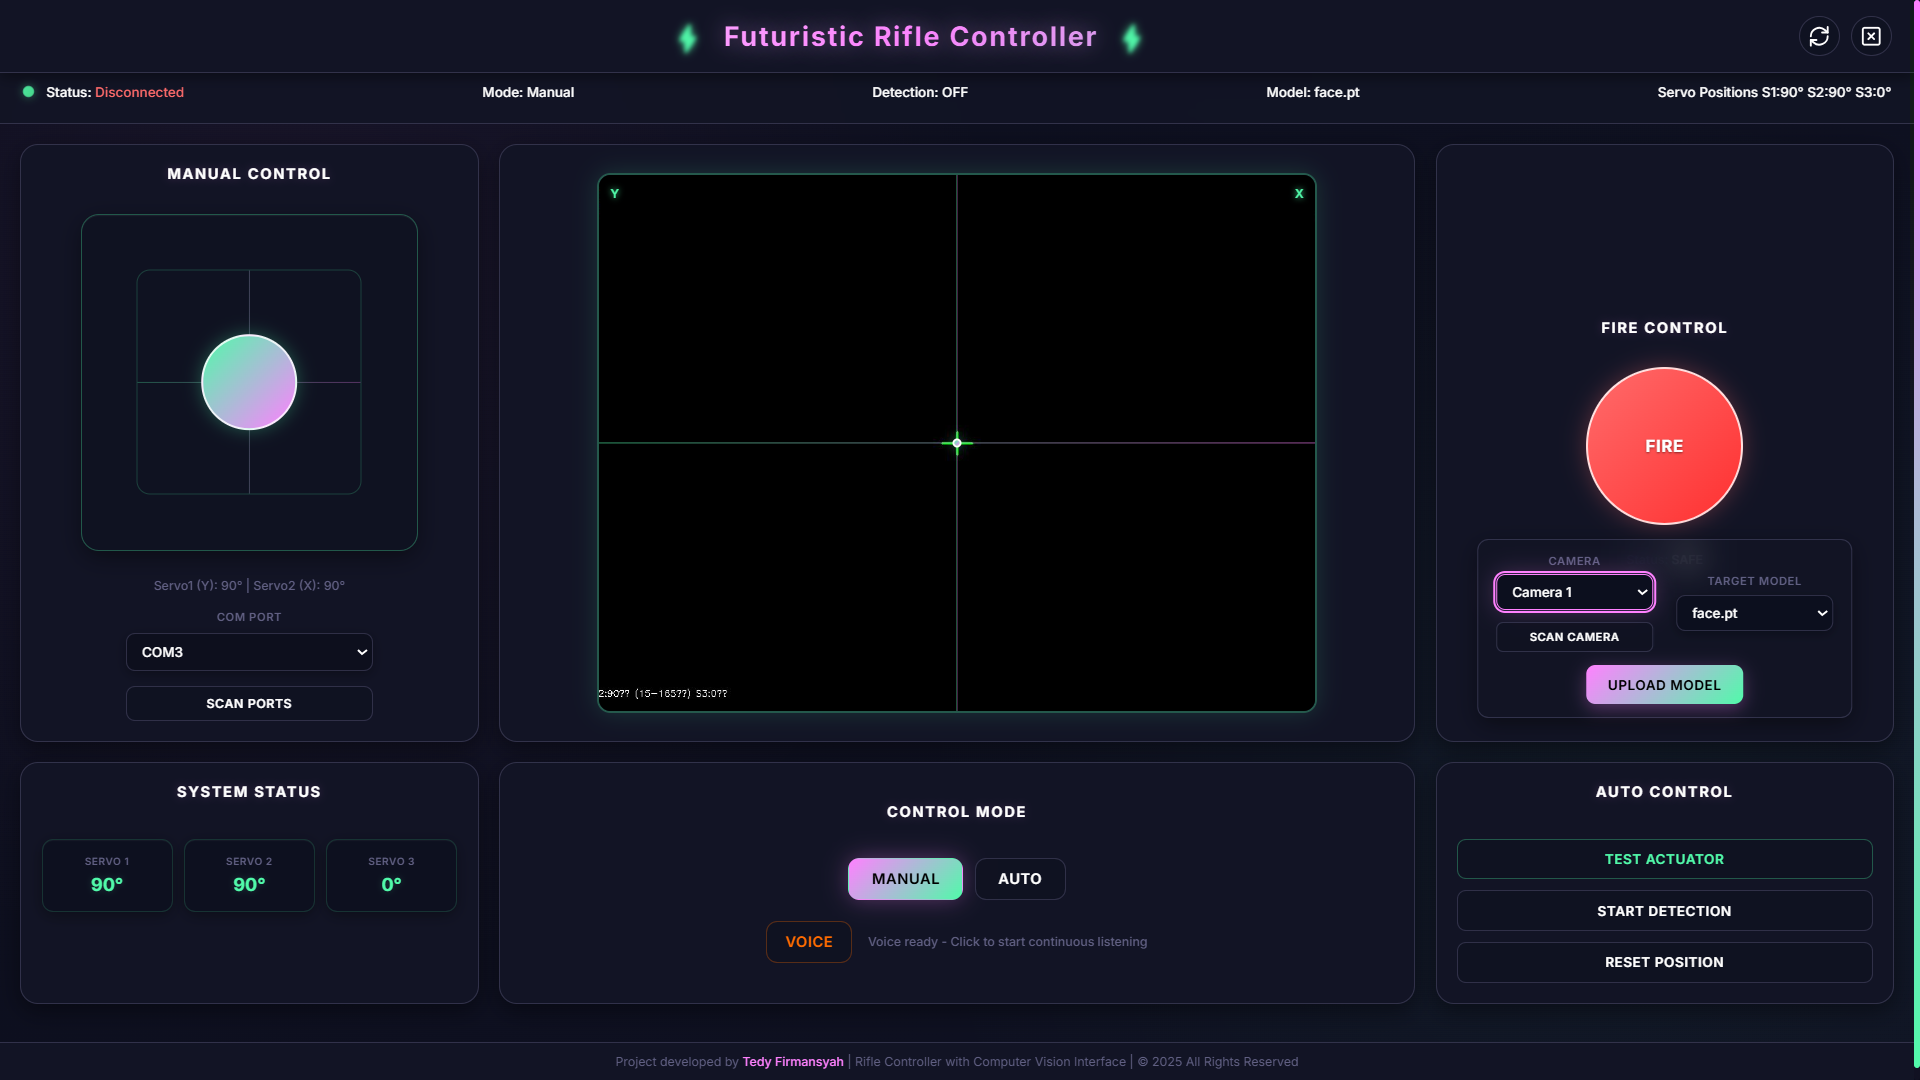
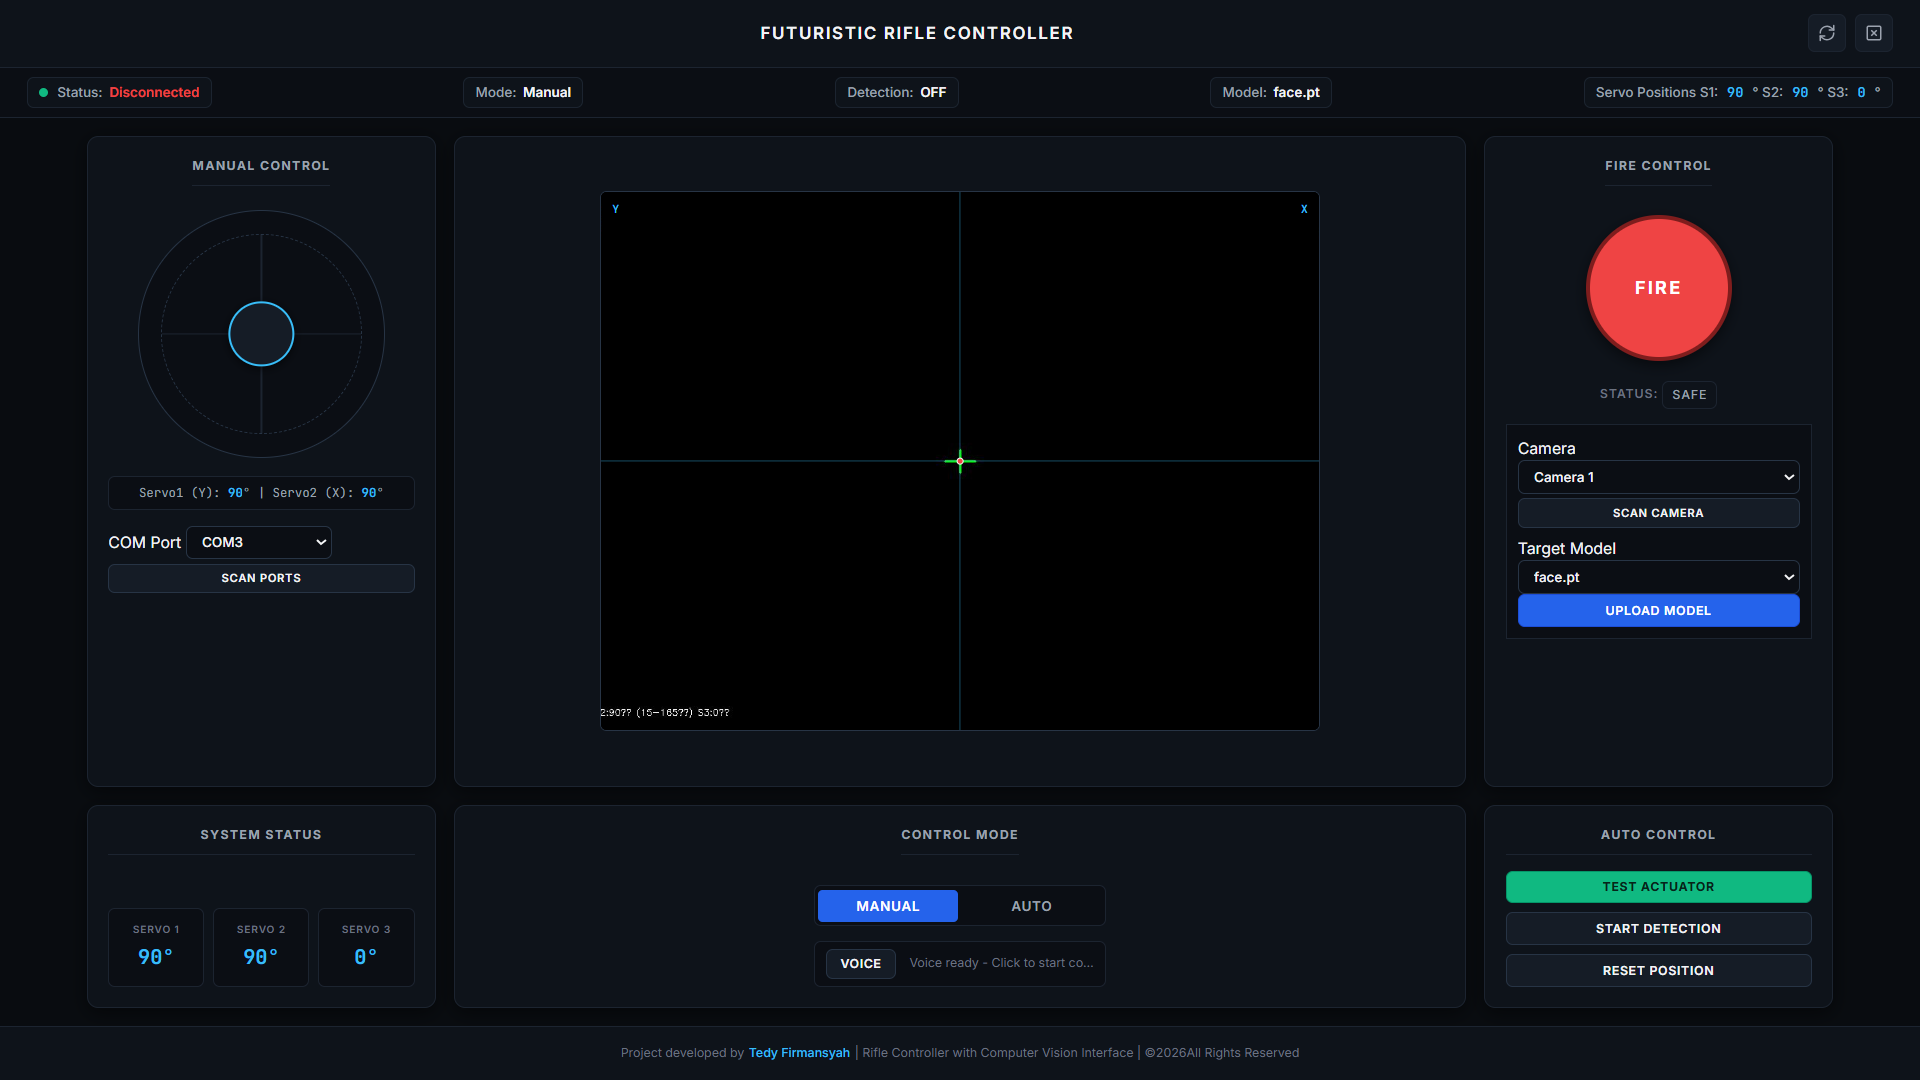
final presentatin 2026

diff --git a/README.md b/README.md
@@ -1,233 +1,214 @@
-# 🎯 AI Shooter Robot
+# AI Shooter Robot
 
-**AI Computer Vision Based Automatic Targeting System**
+**AI Computer Vision-Based Automatic Targeting System**
 
 ![Python](https://img.shields.io/badge/Python-3.8+-blue.svg)
 ![Arduino](https://img.shields.io/badge/Arduino-IDE-green.svg)
 ![OpenCV](https://img.shields.io/badge/OpenCV-4.5+-red.svg)
 ![JavaScript](https://img.shields.io/badge/JavaScript-ES6-yellow.svg)
 
-## 🖼 Deployment Preview
+## Deployment Preview
 
 <p align="center">
-  <img src="img/doc1.png" width="1080">
-  <img src="img/doc2.jpeg" width="1080">
+  <img src="img/doc1.png" width="1080" alt="Web Controller Interface">
+  <img src="img/doc2.jpeg" width="1080" alt="Hardware Prototype">
 </p>
 
-## 📋 Project Description
+## Project Description
 
-SHOT-AUTOMATION is an automatic targeting system that uses AI Computer Vision technology for object detection and precision targeting. The system is equipped with manual mode and voice control for maximum usage flexibility.
+SHOT-AUTOMATION is a prototype automated targeting system (pan-tilt turret shooter) powered by Computer Vision and an ESP32 microcontroller. The system uses YOLO (You Only Look Once) deep learning models to detect target objects in real-time, calculates spatial displacement errors relative to the camera frame center, and drives pan and tilt servos with closed-loop proportional control for target tracking.
 
-### ✨ Key Features
+The application features a modern dark-themed web interface offering manual control via a virtual joystick, trigger firing action, automated target tracking, voice command control, and dynamic switching of input cameras and detection models.
 
-- 🤖 **Automatic Targeting** - AI detection using computer vision models
-- 🎮 **Manual Mode** - Manual control for maximum precision  
-- 🎙 **Voice Control** - Voice command control via API
-- 🎯 **Multi-Target Detection** - Multiple object detection (face, hand, red_ball)
-- 📊 **Real-time Processing** - Real-time video processing
-- 🌐 **Web Interface** - User-friendly web interface
+### Key Features
 
-## 🏗 Project Structure
+- **Automatic Targeting**: Autonomous target tracking using proportional control loops on pan and tilt servo axes.
+- **Manual Mode**: High-precision manual positioning using a touchscreen/mouse virtual joystick on the web interface.
+- **Trigger Control**: Actuation of the firing trigger servo (Servo 3) in both manual and automatic modes.
+- **Voice Control**: Voice command processing using the Web Speech API for mode transitions, directional nudges, and firing.
+- **Multi-Target Detection**: Dynamic selection of YOLO models (`face.pt`, `hand.pt`, `red_ball.pt`).
+- **Offline Simulation & Benchmarking**: Standalone simulation scripts for image/video evaluation, alongside analytical scripts for servo settling times and step response curves.
+- **Web Interface**: Responsive, zero-latency dark-mode interface featuring real-time video streaming, telemetry readouts, and integrated synthesizer audio cues.
+
+## Project Structure
 
 ```
 SHOT-AUTOMATION/
-├── model/                 # AI models for object detection
-│   ├── face.pt           # Face detection model
-│   ├── hand.pt           # Hand detection model
-│   └── red_ball.pt       # Red ball detection model
-├── shot-automation/       # Core application
-│   └── shot-automation.ino # Arduino firmware
-├── static/               # Web static files
-│   ├── css/             # Stylesheets
-│   ├── js/              # JavaScript files
-│   └── sound/           # Audio files
-├── templates/            # HTML templates
-│   └── index.html       # Main interface
-├── app.py               # Main Flask application
-├── port_scan.py         # Port scanning utility
-├── requirements.txt     # Python dependencies
-└── README.md           # Project documentation
+├── c++_code/              # Microcontroller firmware
+│   └── shot-automation.ino # ESP32 Arduino sketch for 3-axis servo actuation
+├── img/                   # Documentation and input sample assets
+│   ├── doc1.png           # Web interface screenshot
+│   ├── doc2.jpeg          # Physical hardware setup
+│   └── tes.png            # Input test image for offline simulation
+├── model/                 # YOLO model weights (.pt)
+│   ├── face.pt            # Face detection model
+│   ├── hand.pt            # Hand detection model
+│   └── red_ball.pt        # Red ball detection model
+├── result/                # Simulation output artifacts
+│   └── tes_result.png     # Rendered multi-object detection visualization
+├── static/                # Web frontend static assets
+│   ├── css/               # Modern dark styling (styles.css)
+│   ├── js/                # Client logic and visualizers (script.js, visualizer.js)
+│   └── sound/             # UI feedback audio files
+├── templates/             # Server templates
+│   └── index.html         # Main dashboard layout
+├── app.py                 # Core Flask backend, video stream pipeline, and serial driver
+├── simulation.py          # Standalone simulation script for image and video inference
+├── plot_accuracy.py       # Data analysis script: Settling time vs. pixel distance
+├── step_response_test.py  # Control loop evaluation: P-Control vs. PID response
+├── manual_book.md         # Comprehensive hardware and operation manual (Indonesian)
+├── requirements.txt      # Python package dependencies
+└── README.md              # Project documentation
 ```
 
-## 🛠 Technologies Used
+## Detection Simulation & Analysis
+
+The repository includes a dedicated simulation script, `simulation.py`, which allows testing of YOLO detection logic and coordinate calculations without connecting physical microcontroller hardware.
+
+### Multi-Object Detection Simulation
+
+When running `simulation.py`, the system processes the test image `img/tes.png` using `model/red_ball.pt`. Every detected object exceeding the confidence threshold is annotated with bounding boxes, center coordinates, numbered sequence tags, confidence scores, and relative distance vectors toward the primary target.
+
+<p align="center">
+  <img src="result/tes_result.png" width="600" alt="Red Ball Detection Simulation Result">
+</p>
+
+*Visualization of `result/tes_result.png` generated by `simulation.py`, showcasing multi-object red ball identification and offset tracking vectors.*
+
+### Performance Evaluation Scripts
+
+1. **`plot_accuracy.py`**: Generates a scatter plot with regression analysis comparing target distance from the frame center (in pixels) against the servo stabilization duration (*settling time*).
+2. **`step_response_test.py`**: Simulates and plots servo tracking step responses, highlighting the trade-offs between *P-Control* and *PID Control*.
+
+Run the simulation and analysis scripts:
+```bash
+python simulation.py
+python plot_accuracy.py
+python step_response_test.py
+```
+
+## Technologies Used
 
 ### Development Tools
-- **Google Colab** - AI model training
-- **Arduino IDE** - Microcontroller programming
-- **VS Code** - Development environment
+- **Google Colab**: Model training, dataset labeling pipelines, and PyTorch export
+- **Arduino IDE**: Firmware compilation and ESP32 flashing
+- **VS Code**: Core application development environment
 
 ### Tech Stack
-- **Backend**: Python, Flask
-- **Frontend**: HTML, CSS, JavaScript
-- **AI/ML**: OpenCV, PyTorch/TensorFlow
-- **Hardware**: Arduino, Servo Motors
-- **Audio**: Web Speech API
+- **Backend**: Python 3.8+, Flask, PySerial
+- **Computer Vision & ML**: OpenCV, Ultralytics YOLO, PyTorch
+- **Frontend**: HTML5, Vanilla CSS (Dark Theme Architecture), JavaScript (ES6+), Web Audio API
+- **Hardware Platform**: ESP32 Dev Module, 3x Micro Servos (MG90S / SG90), USB Webcam
 
-## 🚀 Installation and Setup
+## Installation and Setup
 
 ### Prerequisites
-```bash
-# Ensure Python 3.8+ is installed
-python --version
-
-# Install Arduino IDE
-# Download from: https://www.arduino.cc/en/software
-```
+- Python 3.8 or higher
+- Arduino IDE with ESP32 board support and `ESP32Servo` library installed
+- USB ports connected to both the ESP32 module and a webcam
 
 ### 1. Clone Repository
 ```bash
-git clone https://github.com/username/shot-automation.git
-cd shot-automation
+git clone https://github.com/Tedshub/shooter-ai.git
+cd shooter-ai
 ```
 
-### 2. Setup Python Environment
+### 2. Setup Python Virtual Environment
 ```bash
 # Create virtual environment
 python -m venv venv
 
 # Activate virtual environment
 # Windows:
-venv\Scripts\activate
+.\venv\Scripts\activate
 # Linux/Mac:
 source venv/bin/activate
 
-# Install dependencies
+# Install required dependencies
 pip install -r requirements.txt
 ```
 
-### 3. Setup Arduino
-1. Open Arduino IDE
-2. Load file `shot-automation/shot-automation.ino`
-3. Select appropriate board and port
-4. Upload to Arduino
+### 3. Flash ESP32 Firmware
+1. Connect the ESP32 board to your computer via USB.
+2. Open `c++_code/shot-automation.ino` in the Arduino IDE.
+3. Verify the GPIO servo pin mappings:
+   - Y-Axis Servo (Tilt): GPIO 18
+   - X-Axis Servo (Pan): GPIO 19
+   - Trigger Servo: GPIO 23
+4. Select **DOIT ESP32 DEVKIT V1** (or matching board type) and the appropriate COM Port.
+5. Click **Upload** to compile and flash the firmware.
 
-### 4. Run Application
+### 4. Run the Application
 ```bash
 python app.py
 ```
+Open your web browser and navigate to: `http://127.0.0.1:5000`
 
-Access application at: `http://localhost:5000`
-
-## 🎮 Usage Guide
+## Operating Modes
 
 ### Automatic Mode
-1. Select target detection (face/hand/red_ball)
-2. Click "Start Auto Mode"
-3. System will automatically detect and aim
+1. Choose an active detection model from the navigation bar (`face.pt`, `hand.pt`, or `red_ball.pt`).
+2. Toggle the **AUTO TRACKING** switch on.
+3. The system tracks the detected object, computes the deviation from center coordinates (deadzone: 1.0 px), and dynamically commands the pan and tilt servos to keep the target centered.
 
 ### Manual Mode
-1. Use directional controls on web interface
-2. Control servos manually with high precision
+1. Use the on-screen **Virtual Joystick** or slider controls to manually adjust the pan (0–180 degrees) and tilt (0–180 degrees) angles.
+2. Click the **FIRE** button to actuate the trigger servo for a 300 ms pulse before returning to standby.
 
 ### Voice Control
-1. Click microphone button
-2. Give voice commands:
-   - "Start auto mode"
-   - "Switch to manual"
-   - "Move left/right/up/down"
-   - "Fire"
-   - "Stop"
+1. Click the microphone icon to initialize browser voice recognition.
+2. Supported voice commands:
+   - `"Start auto mode"` / `"Mode otomatis"`
+   - `"Switch to manual"` / `"Mode manual"`
+   - `"Move left"`, `"Move right"`, `"Move up"`, `"Move down"`
+   - `"Fire"` / `"Tembak"`
+   - `"Stop"` / `"Reset"`
 
-## 🔧 Configuration
+## Communication Protocol
 
-### Model Configuration
-Edit model configuration in `app.py`:
-```python
-MODELS = {
-    'face': 'model/face.pt',
-    'hand': 'model/hand.pt', 
-    'red_ball': 'model/red_ball.pt'
-}
+Communication between the Flask backend (`app.py`) and the ESP32 occurs over a serial link operating at 115200 baud using formatted strings:
+
+```text
+S1,<tilt_angle>,S2,<pan_angle>\n   # Pan/Tilt positioning command
+FIRE\n                              # Trigger actuation command
 ```
 
-### Arduino Configuration
-Adjust pin configuration in `shot-automation.ino`:
-```cpp
-#define SERVO_X_PIN 9
-#define SERVO_Y_PIN 10
-#define TRIGGER_PIN 11
-```
-
-## 📡 API Endpoints
+## API Endpoints
 
 | Method | Endpoint | Description |
-|--------|----------|-------------|
-| GET | `/` | Main interface |
-| POST | `/start_auto` | Start automatic mode |
-| POST | `/manual_control` | Manual control |
-| POST | `/voice_command` | Process voice commands |
-| GET | `/video_feed` | Real-time video stream |
+|---|---|---|
+| GET | `/` | Serves main web application dashboard |
+| GET | `/video_feed` | MJPEG video stream with real-time detection bounding boxes |
+| POST | `/api/servo` | Updates target servo pan and tilt angles |
+| POST | `/api/fire` | Triggers the firing servo mechanism |
+| POST | `/api/mode` | Toggles between Manual and Auto Tracking modes |
+| POST | `/api/model` | Hot-swaps the loaded YOLO model file |
+| POST | `/api/scan_ports` | Scans for available serial COM ports |
+| POST | `/api/voice_command` | Processes speech-to-text voice command strings |
 
-## 🎯 Model Training
+## Hardware Wiring Reference
 
-To train new models using Google Colab:
+| Component | ESP32 Pin | Function |
+|---|---|---|
+| Servo 1 (Y-Axis / Tilt) | GPIO 18 | PWM control signal for elevation |
+| Servo 2 (X-Axis / Pan) | GPIO 19 | PWM control signal for azimuth |
+| Servo 3 (Trigger) | GPIO 23 | PWM control signal for firing trigger |
+| Servo Power Supply | External 5V 2A | Power rail for servos (share common GND with ESP32) |
+| Webcam | USB Host | Video capture feed for computer vision pipeline |
 
-1. Upload dataset to Google Drive
-2. Open Colab notebook for training
-3. Run training script
-4. Download trained `.pt` model
-5. Move to `model/` folder
+## Troubleshooting
 
-## ⚙ Hardware Requirements
+- **Serial Port In Use / Error**: Ensure that the Arduino IDE Serial Monitor or any other terminal software is closed before running `app.py`. Use the **Scan Ports** button in the web dashboard to re-bind the active port.
+- **Camera Stream Failed**: Confirm your camera device index in `app.py` (default: `0`). You can also switch camera devices directly using the dropdown menu in the web UI.
+- **Model Loading Issue**: Ensure all required `.pt` files reside inside the `model/` folder and that the `ultralytics` package is properly installed in your active virtual environment.
 
-### Minimum Requirements
-- Arduino Uno/Nano
-- 2x Servo Motors (SG90 or equivalent)
-- USB Camera/Webcam
-- Breadboard and jumper wires
-
-### Recommended Setup
-- Arduino Mega (for better performance)
-- High-torque servo motors
-- HD Camera with auto-focus
-- External power supply for servos
-
-## 🔍 Troubleshooting
-
-### Common Issues
-
-**Camera not detected:**
-```bash
-# Check available cameras
-python -c "import cv2; print(cv2.VideoCapture(0).isOpened())"
-```
-
-**Arduino port not found:**
-```bash
-# Run port scanner
-python port_scan.py
-```
-
-**Model loading error:**
-- Ensure model `.pt` files exist in `model/` folder
-- Check PyTorch version compatibility
-
-## 🤝 Contributing
-
-1. Fork the repository
-2. Create feature branch (`git checkout -b feature/AmazingFeature`)
-3. Commit changes (`git commit -m 'Add some AmazingFeature'`)
-4. Push to branch (`git push origin feature/AmazingFeature`)
-5. Open Pull Request
-
-## 📄 License
-
-Distributed under the MIT License. See `LICENSE` for more information.
-
-## 📞 Contact
+## Contact
 
 **Developer**: Tedy Firmansyah
 - Email: tedysyhh07@gmail.com
 - LinkedIn: [Tedy Firmansyah](https://www.linkedin.com/in/tedy-firmansyah-305ab5340)
 - GitHub: [@Tedshub](https://github.com/Tedshub)
 
-## 🙏 Acknowledgments
+## License
 
-- [OpenCV](https://opencv.org/) for computer vision library
-- [Flask](https://flask.palletsprojects.com/) for web framework
-- [ESP32](https://www.espressif.com/) for microcontroller platform
-- [Google Colab](https://colab.research.google.com/) for training environment
-
----
-
-⭐ **Don't forget to give this project a star if it helped you!** ⭐
+Distributed under the MIT License. See `LICENSE` for more information.
